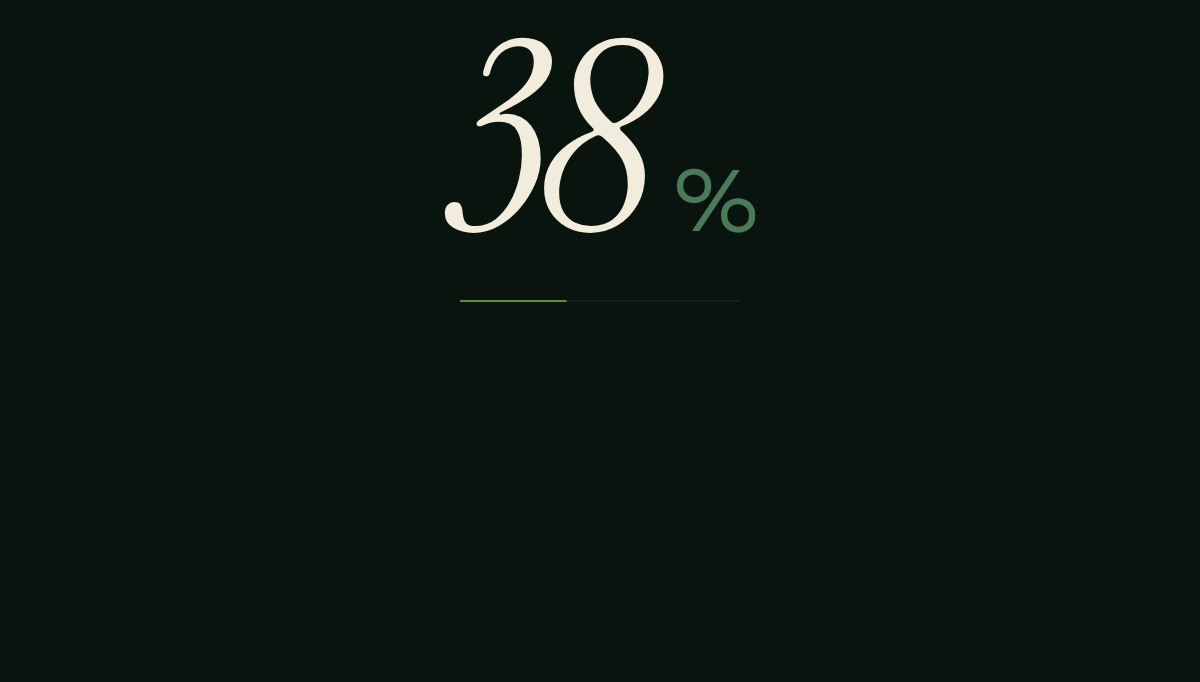
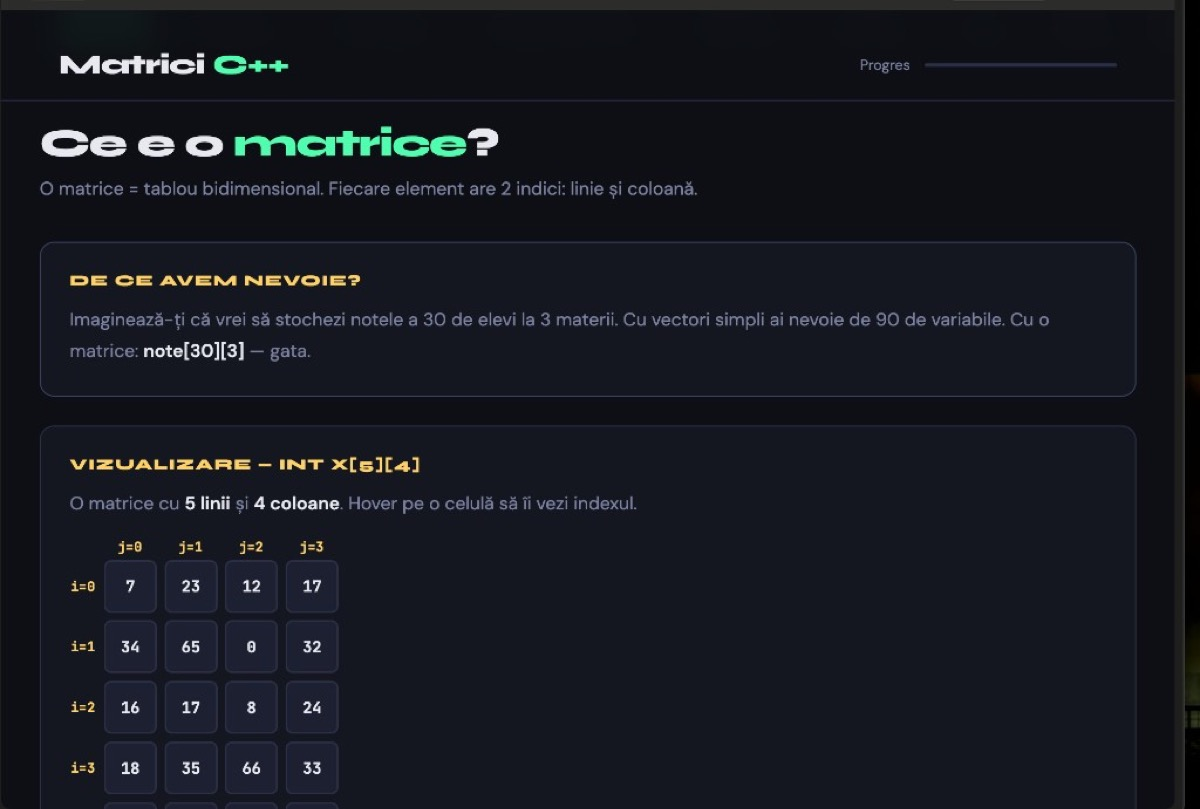
fix: rename SalonFloow project and update portfolio screenshots.
Replace Cezieni Salon App with SalonFloow, refresh Grim Dropper, Matrici C++, and DayBrief cards with new images and descriptions.

diff --git a/portfolio.html b/portfolio.html
@@ -4,7 +4,7 @@
   <meta charset="UTF-8" />
   <base href="/stefan-portfolio/" />
   <meta name="viewport" content="width=device-width, initial-scale=1.0" />
-  <meta name="description" content="Portfolio projects by Booveanu Stefan — Cezieni Salon App, DayBrief, Grim Dropper, and more." />
+  <meta name="description" content="Portfolio projects by Booveanu Stefan — SalonFloow, Grim Dropper, Matrici C++, DayBrief, and more." />
   <title>Works — Booveanu Stefan</title>
   <link rel="preconnect" href="https://fonts.googleapis.com" />
   <link rel="preconnect" href="https://fonts.gstatic.com" crossorigin />
@@ -62,11 +62,11 @@
         <p style="color:var(--text-muted);max-width:62ch;margin-bottom:28px;">From client delivery and mobile apps to educational tools and hackathon experiments — a mix of production work and learning projects.</p>
 
         <div class="projects-grid">
-          <article class="card project-card" id="cezieni">
-            <div class="project-thumb"><img src="assets/img/projects/cezieni.png" alt="Cezieni Salon App login screen" loading="lazy" /></div>
+          <article class="card project-card" id="salonfloow">
+            <div class="project-thumb"><img src="assets/img/projects/salonfloow.png" alt="SalonFloow salon calendar dashboard" loading="lazy" /></div>
             <div class="project-body">
-              <h3>Cezieni Salon App</h3>
-              <p>Internal web app for Cezieni salon in Timișoara — day/week calendar, 5 barbers, appointments, client search across multiple days, and mobile-friendly PWA access.</p>
+              <h3>SalonFloow</h3>
+              <p>Salon management platform for Cezieni Timișoara — multi-barber day calendar, appointments, notifications, client search, and installable PWA for staff on mobile.</p>
               <div class="project-meta">
                 <span>Full-stack Developer</span>
                 <span>Next.js</span>
@@ -79,11 +79,41 @@
             </div>
           </article>
 
+          <article class="card project-card" id="grim-dropper">
+            <div class="project-thumb"><img src="assets/img/projects/grim-dropper.png" alt="Grim Dropper red-teaming tool overview" loading="lazy" /></div>
+            <div class="project-body">
+              <h3>Grim Dropper</h3>
+              <p>Red-teaming solution for deploying and propagating payloads in security exercises. Combines packing, obfuscation, and encryption so payloads stay undetected and effective in target environments.</p>
+              <div class="project-meta">
+                <span>HackTM Developer</span>
+                <span>React</span>
+                <span>TypeScript</span>
+                <span>Python</span>
+                <span>Vite</span>
+              </div>
+              <a class="btn" href="https://github.com/stefanbooveanu-debug/grim-ripper" target="_blank" rel="noreferrer">View on GitHub</a>
+            </div>
+          </article>
+
+          <article class="card project-card" id="matrici">
+            <div class="project-thumb"><img src="assets/img/projects/matrici.png" alt="Matrici C++ interactive learning site" loading="lazy" /></div>
+            <div class="project-body">
+              <h3>Matrici C++</h3>
+              <p>Interactive study site for 9th-grade matrix algorithms — visual grid explorer, progress tracking, code examples, and oral exam prep for informatics.</p>
+              <div class="project-meta">
+                <span>Creator</span>
+                <span>HTML</span>
+                <span>CSS</span>
+                <span>JavaScript</span>
+              </div>
+            </div>
+          </article>
+
           <article class="card project-card" id="daybrief">
-            <div class="project-thumb"><img src="assets/img/projects/daybrief.png" alt="DayBrief mobile schedule assistant preview" loading="lazy" /></div>
+            <div class="project-thumb"><img src="assets/img/projects/daybrief.png" alt="DayBrief mobile calendar app" loading="lazy" /></div>
             <div class="project-body">
               <h3>DayBrief</h3>
-              <p>Flutter daily schedule assistant with voice commands, Google sign-in, Firebase backend, local SQLite storage, and text-to-speech feedback.</p>
+              <p>Flutter daily schedule assistant with day/week/month views, voice commands (“Hey DayBrief”), Google sign-in, Firebase backend, and offline-friendly local storage.</p>
               <div class="project-meta">
                 <span>Mobile Developer</span>
                 <span>Flutter</span>
@@ -92,22 +122,6 @@
                 <span>Provider</span>
               </div>
               <a class="btn" href="https://github.com/stefanbooveanu-debug/daybrief" target="_blank" rel="noreferrer">View on GitHub</a>
-            </div>
-          </article>
-
-          <article class="card project-card" id="grim-dropper">
-            <div class="project-thumb"><img src="assets/img/projects/grim-dropper.png" alt="Grim Dropper HackTM login screen" loading="lazy" /></div>
-            <div class="project-body">
-              <h3>Grim Dropper</h3>
-              <p>HackTM red-teaming tool with a React + Vite frontend, Python API backend, auth flows, builder UI, console, and demo game integration.</p>
-              <div class="project-meta">
-                <span>Developer</span>
-                <span>React</span>
-                <span>TypeScript</span>
-                <span>Python</span>
-                <span>Next.js</span>
-              </div>
-              <a class="btn" href="https://github.com/stefanbooveanu-debug/grim-ripper" target="_blank" rel="noreferrer">View on GitHub</a>
             </div>
           </article>
 
@@ -123,20 +137,6 @@
                 <span>JavaScript</span>
               </div>
               <a class="btn" href="contact.html">Discuss this project</a>
-            </div>
-          </article>
-
-          <article class="card project-card" id="matrici">
-            <div class="project-thumb"><img src="assets/img/projects/matrici.png" alt="Matrici interactive learning site" loading="lazy" /></div>
-            <div class="project-body">
-              <h3>Matrici Învățare</h3>
-              <p>Interactive study site for 9th-grade matrix algorithms — visualizations, code examples, flashcards, and oral exam prep for informatics.</p>
-              <div class="project-meta">
-                <span>Creator</span>
-                <span>HTML</span>
-                <span>CSS</span>
-                <span>JavaScript</span>
-              </div>
             </div>
           </article>
 

diff --git a/index.html b/index.html
@@ -67,14 +67,14 @@
           <div class="year">2025 – Present</div>
           <div>
             <h3>Cezieni SRL</h3>
-            <p>Full-stack Developer — internal salon booking app with calendar, multi-barber views, and mobile-friendly PWA delivery.</p>
+            <p>Full-stack Developer — built SalonFloow, a salon management platform with multi-barber calendar, appointments, and PWA delivery.</p>
           </div>
         </article>
         <article class="timeline-item">
           <div class="year">2025</div>
           <div>
             <h3>HackTM — Grim Dropper</h3>
-            <p>Team developer — red-teaming tool with React/Vite frontend and Python API backend.</p>
+            <p>Team developer — Grim Dropper red-teaming tool with payload packing, obfuscation, and encryption.</p>
           </div>
         </article>
         <article class="timeline-item">
@@ -119,21 +119,43 @@
       </div>
       <div class="projects-grid">
         <article class="card project-card">
-          <div class="project-thumb"><img src="assets/img/projects/cezieni.png" alt="Cezieni Salon App login screen" loading="lazy" /></div>
+          <div class="project-thumb"><img src="assets/img/projects/salonfloow.png" alt="SalonFloow salon calendar dashboard" loading="lazy" /></div>
           <div class="project-body">
-            <h3>Cezieni Salon App</h3>
-            <p>Internal booking platform for a Timișoara salon — calendar, appointments, barber roles, and 4G-friendly PWA.</p>
+            <h3>SalonFloow</h3>
+            <p>Salon management platform — multi-barber calendar, appointments, notifications, and PWA for staff.</p>
             <div class="project-meta">
               <span>Next.js</span><span>Prisma</span><span>PostgreSQL</span>
             </div>
-            <a class="btn" href="portfolio.html#cezieni">View details</a>
+            <a class="btn" href="portfolio.html#salonfloow">View details</a>
           </div>
         </article>
         <article class="card project-card">
-          <div class="project-thumb"><img src="assets/img/projects/daybrief.png" alt="DayBrief mobile schedule assistant preview" loading="lazy" /></div>
+          <div class="project-thumb"><img src="assets/img/projects/grim-dropper.png" alt="Grim Dropper red-teaming tool overview" loading="lazy" /></div>
+          <div class="project-body">
+            <h3>Grim Dropper</h3>
+            <p>Red-teaming payload tool with packing, obfuscation, and encryption for security exercises.</p>
+            <div class="project-meta">
+              <span>React</span><span>Python</span><span>HackTM</span>
+            </div>
+            <a class="btn" href="portfolio.html#grim-dropper">View details</a>
+          </div>
+        </article>
+        <article class="card project-card">
+          <div class="project-thumb"><img src="assets/img/projects/matrici.png" alt="Matrici C++ interactive learning site" loading="lazy" /></div>
+          <div class="project-body">
+            <h3>Matrici C++</h3>
+            <p>Interactive matrix learning site with visual grids, progress tracking, and exam prep.</p>
+            <div class="project-meta">
+              <span>HTML</span><span>CSS</span><span>JavaScript</span>
+            </div>
+            <a class="btn" href="portfolio.html#matrici">View details</a>
+          </div>
+        </article>
+        <article class="card project-card">
+          <div class="project-thumb"><img src="assets/img/projects/daybrief.png" alt="DayBrief mobile calendar app" loading="lazy" /></div>
           <div class="project-body">
             <h3>DayBrief</h3>
-            <p>Daily schedule assistant with voice commands, Firebase auth, and offline-friendly local storage.</p>
+            <p>Daily schedule assistant with voice commands, calendar views, and Firebase auth.</p>
             <div class="project-meta">
               <span>Flutter</span><span>Firebase</span><span>Provider</span>
             </div>

diff --git a/about.html b/about.html
@@ -72,7 +72,7 @@
           <div>
             <h3>Cezieni SRL</h3>
             <p>Full-stack Developer · Timișoara, Timiș, Romania</p>
-            <p style="margin-top:8px;">Designed and built an internal salon management app — calendar, appointments, roles, services, and deployment on Vercel with PostgreSQL.</p>
+            <p style="margin-top:8px;">Designed and built SalonFloow — salon management platform with multi-barber calendar, appointments, notifications, and PWA deployment on Vercel with PostgreSQL.</p>
           </div>
         </article>
         <article class="timeline-item">
@@ -80,7 +80,7 @@
           <div>
             <h3>HackTM — Grim Dropper</h3>
             <p>Developer · Timișoara, Timiș, Romania</p>
-            <p style="margin-top:8px;">Contributed to a red-teaming tool with a React/Vite frontend and Python backend API.</p>
+            <p style="margin-top:8px;">Contributed to Grim Dropper — a red-teaming solution for payload deployment using packing, obfuscation, and encryption.</p>
           </div>
         </article>
         <article class="timeline-item">